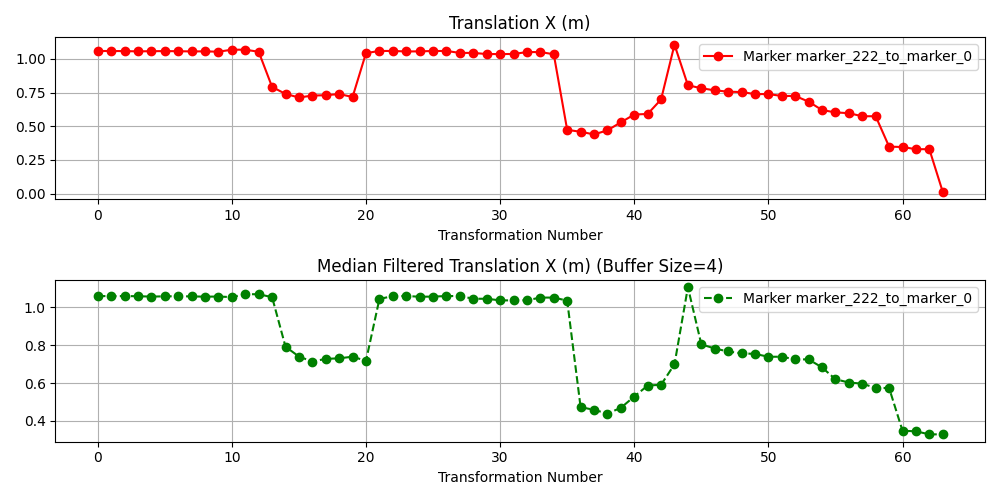
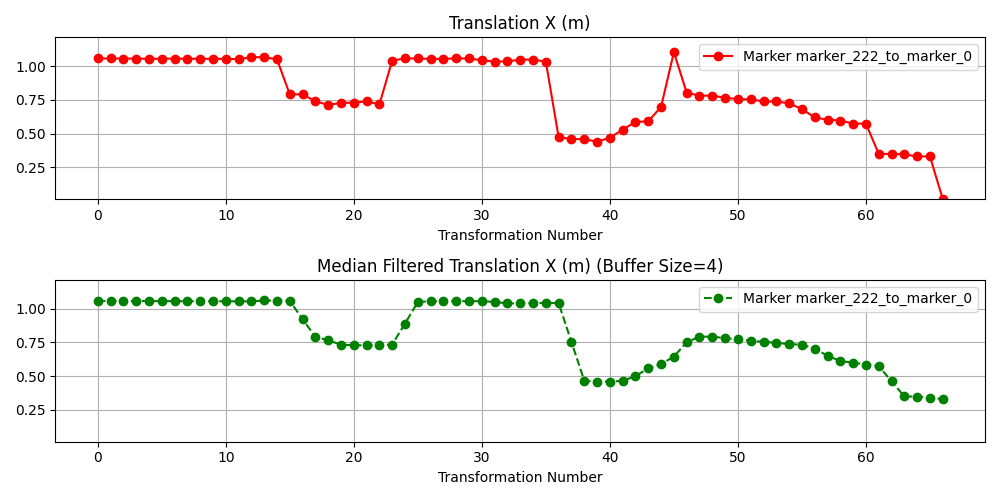
Fix Median Filter

diff --git a/RosBag/ROS_Workspace/data_quality/data_quality/tf_listener_marker_0.py b/RosBag/ROS_Workspace/data_quality/data_quality/tf_listener_marker_0.py
@@ -26,7 +26,6 @@ class TFListenerNode(Node):
                                 'trans': [], 'rot': [], 'last_transform': None}
         }
         self.counter = {'marker_111_to_0': 0, 'marker_222_to_0': 0, 'total': 0}
-        self.moving_average_window = 10
         self.filter_buffer_size = 4
 
         # Ensure CSV files exist and are initialized
@@ -78,32 +77,31 @@ class TFListenerNode(Node):
             # Get the time difference for marker_xxx_to_0
             current_time = self.get_clock().now().nanoseconds / 1e9
             last_time = self.data[filename]['last_time']
+
             if last_time is not None:
                 time_diff = current_time - last_time
                 self.data[filename]['times'].append(time_diff)
-
-                # Keep only the last X messages
-                if len(self.data[filename]['times']) > self.moving_average_window:
-                    self.data[filename]['times'].pop(0)
-
-                moving_avg_time_between_messages = sum(self.data[filename]['times']) / len(self.data[filename]['times'])
-
-                # Keep rolling windows for translation and rotation
-                self.update_window(self.data[filename]['trans'],
-                                   [translation.x, translation.y, translation.z])
-                self.update_window(self.data[filename]['rot'],
-                                   [rotation.x, rotation.y, rotation.z, rotation.w])
-
-                # Compute median filter for translations and rotations
-                filtered_trans = [statistics.median(x) for x in zip(*self.data[filename]['trans'])]
-                filtered_rot = [statistics.median(x) for x in zip(*self.data[filename]['rot'])]
 
                 # Check if the transform is unique (different from the last logged one)
                 current_transform = [translation.x, translation.y, translation.z,
                                      rotation.x, rotation.y, rotation.z, rotation.w]
                 last_transform = self.data[filename]['last_transform']
+
                 if last_transform is None or current_transform != last_transform:
-                    self.get_logger().info(str(current_transform))
+                    # self.get_logger().info(str(current_transform))
+
+                    # Keep rolling windows for translation and rotation
+                    self.update_window(self.data[filename]['trans'],
+                                       [translation.x, translation.y, translation.z])
+                    self.update_window(self.data[filename]['rot'],
+                                       [rotation.x, rotation.y, rotation.z, rotation.w])
+
+                    moving_avg_time_between_messages = sum(self.data[filename]['times']) / len(self.data[filename]['times'])
+
+                    # Compute median filter for translations and rotations
+                    filtered_trans = [statistics.median(x) for x in zip(*self.data[filename]['trans'])]
+                    filtered_rot = [statistics.median(x) for x in zip(*self.data[filename]['rot'])]
+
                     # Log to CSV if unique
                     self.log_to_csv(filename, time_diff, moving_avg_time_between_messages,
                                     translation, rotation, filtered_trans, filtered_rot)
